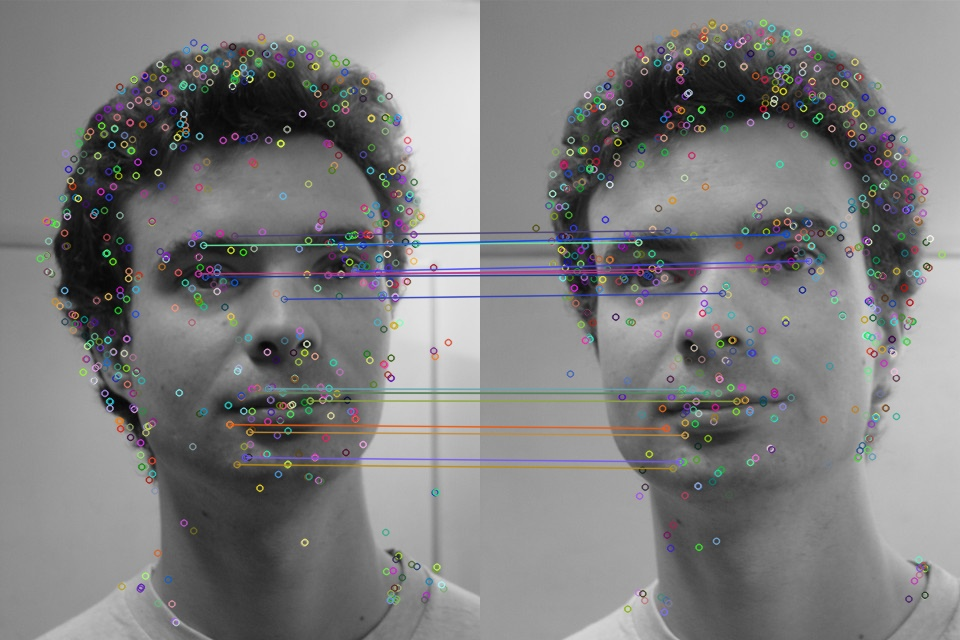
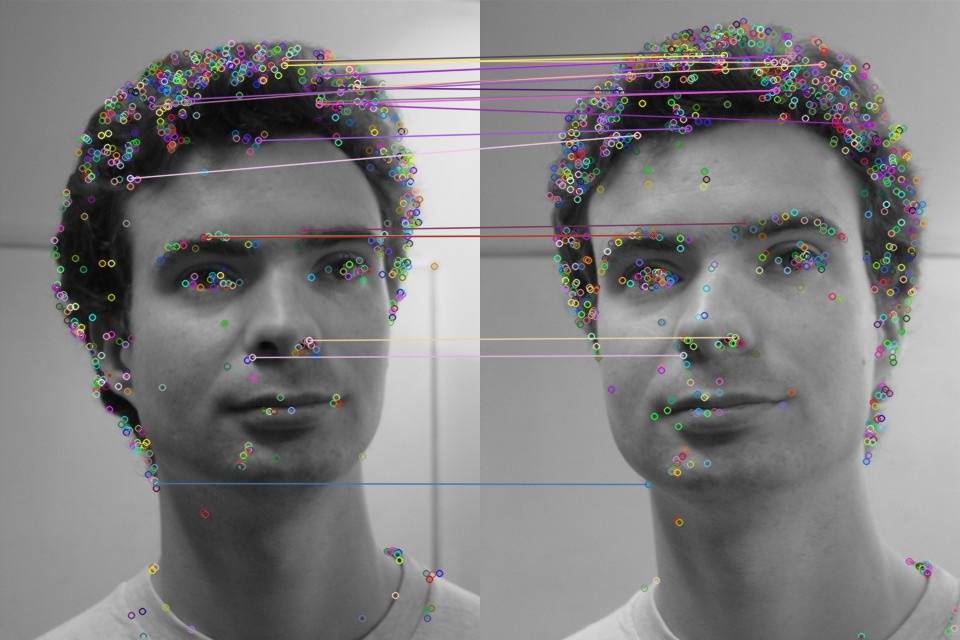
after merging, bad results

diff --git a/java_3d_reconstruction/src/reconstruction/matcher/Matcher.java b/java_3d_reconstruction/src/reconstruction/matcher/Matcher.java
@@ -26,7 +26,7 @@ public class Matcher {
     DescriptorMatcher matcher;
     //keypoints
     MatOfKeyPoint keyPoints1, keyPoints2;
-    MatOfPoint2f matchPoints1,matchPoints2;
+    MatOfPoint2f matchPoints1, matchPoints2;
     //descriptors
     Mat descriptors1, descriptors2;
     //mateches
@@ -45,9 +45,13 @@ public class Matcher {
 
         detect();
         descript();
-        matchDescriptors();
+        sparseMatcher();
+//        ofMatcher();
 
-        //clear matches
+    }
+
+    private void sparseMatcher() {
+        matchDescriptors();
         ratioTest(getMatches1());
         ratioTest(getMatches2());
         List<DMatch> symMatches = symTest();
@@ -60,7 +64,6 @@ public class Matcher {
         PointHelpers.sortedKeyPointsToMatOfPoint2f(getKeyPoints1(), getKeyPoints2(), getGoodMatches(), points1, points2);
         this.matchPoints1 = points1;
         this.matchPoints2 = points2;
-
     }
 
     public Mat drawMatchesAndKeyPoints(String path) {
@@ -192,7 +195,7 @@ public class Matcher {
         return matOfDMatch.get(neighbourIndex, 0)[3];
     }
 
-    public void ofMatch() {
+    public void ofMatcher() {
 
 
         MatOfPoint2f leftPointsMat = PointHelpers.keyPointsToMatOfPoint2f(keyPoints1);
@@ -235,6 +238,14 @@ public class Matcher {
             System.out.println(match.dump());
         }
         List<DMatch> goodMatchesWithOriginalQueryIdx = ofRatioTest(bfMatches, rightPointsToFindBackIndex);
+        this.goodMatches = goodMatchesWithOriginalQueryIdx;
+        MatOfPoint2f points1 = new MatOfPoint2f();
+        MatOfPoint2f points2 = new MatOfPoint2f();
+
+
+        PointHelpers.sortedKeyPointsToMatOfPoint2f(getKeyPoints1(), getKeyPoints2(), getGoodMatches(), points1, points2);
+        this.matchPoints1 = points1;
+        this.matchPoints2 = points2;
 
 
 
@@ -253,7 +264,6 @@ public class Matcher {
                 queryIdx = (int) PointHelpers.getQueryIdxFromMatOfDMatch(match);
                 oldQueryIdx = originalIndexes.get(queryIdx);
                 trainIdx = (int) PointHelpers.getTrainIdxFromMatOfDMatch(match);
-                System.out.println("here");
 
                 goodMatchesWithOriginalIndexes.add(new DMatch(
                         oldQueryIdx,
